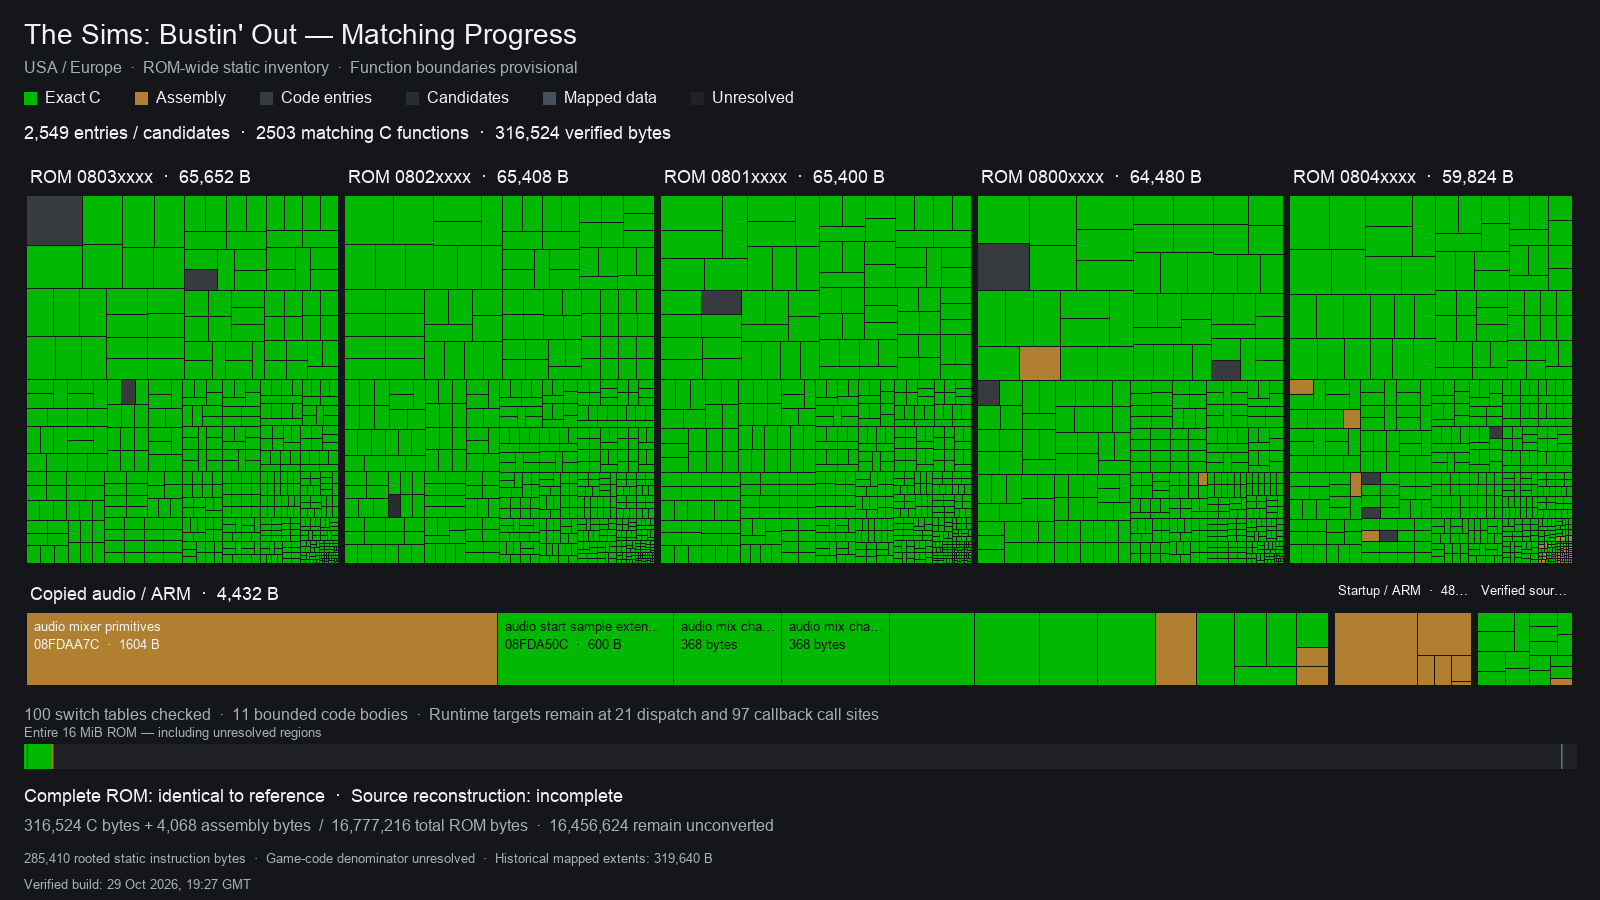
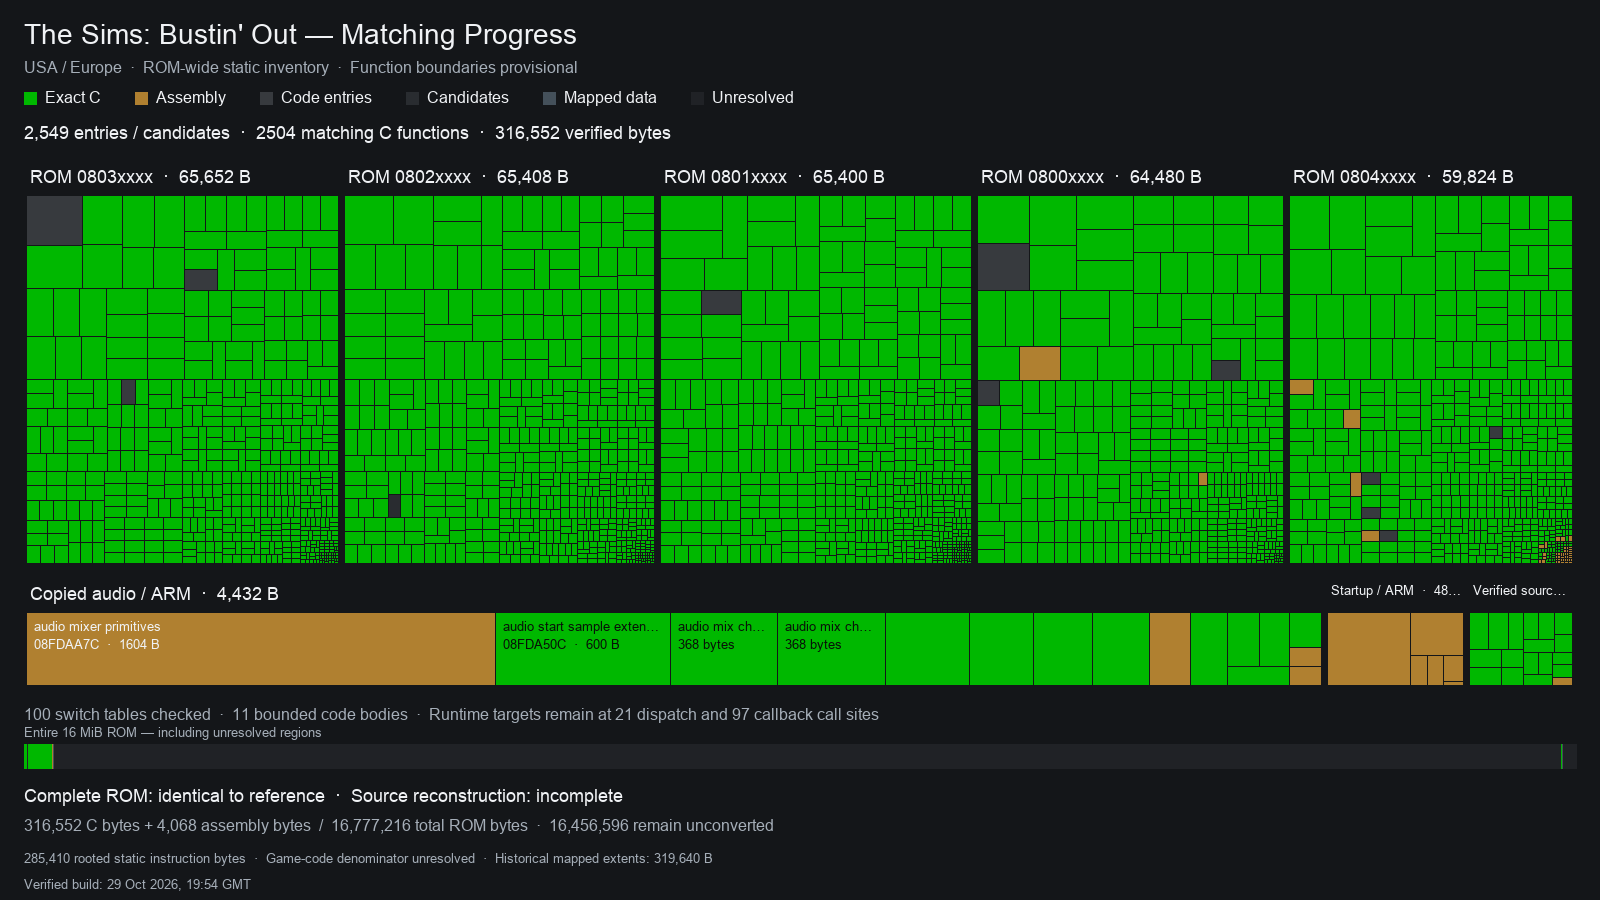
Reconstruct unrooted frame animation flag clear
Own the complete 28-byte helper at 0x080015A0 with ordinary indexed byte-access C. Preserve the full incoming base and explicit low-byte part selection; keep original incoming-entry and historical ABI questions open.

Validate 2,559 exact components and genuine changed-source controls, full-ROM equality, make progress, and 447 tests. Source ownership is now 2,504 C functions / 316,552 C extent bytes plus 4,068 assembly bytes; executable inventory remains incomplete.

diff --git a/src/frame/frame_clear_part_flag1.c b/src/frame/frame_clear_part_flag1.c
@@ -1,0 +1,10 @@
+#include "frame_animation.h"
+
+/* Native low-byte selection; sufficient backing remains a caller obligation. */
+void frame_clear_part_flag1(void *base, unsigned int part)
+{
+    unsigned char *flags = (unsigned char *)base +
+        (unsigned char)part * sizeof(struct FrameAnimationPart) + 0x104;
+
+    *flags &= ~2u;
+}
